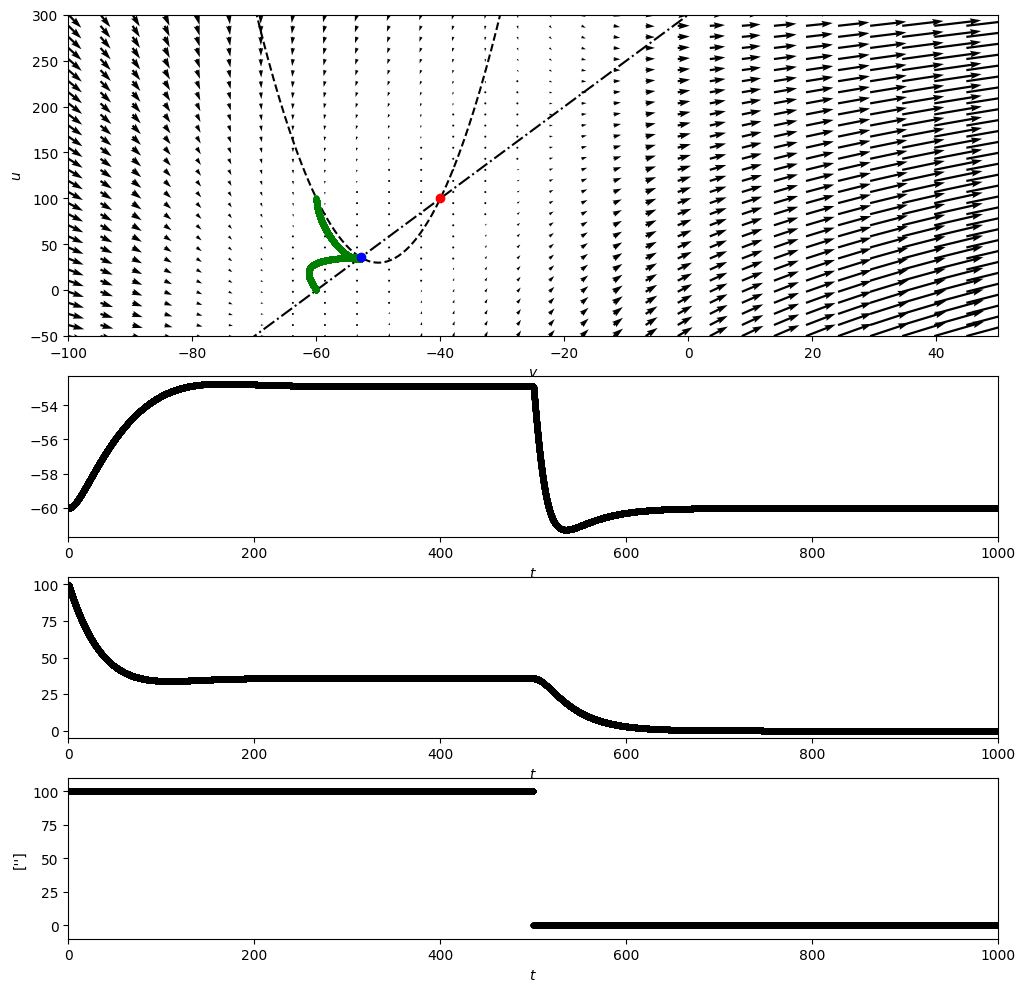
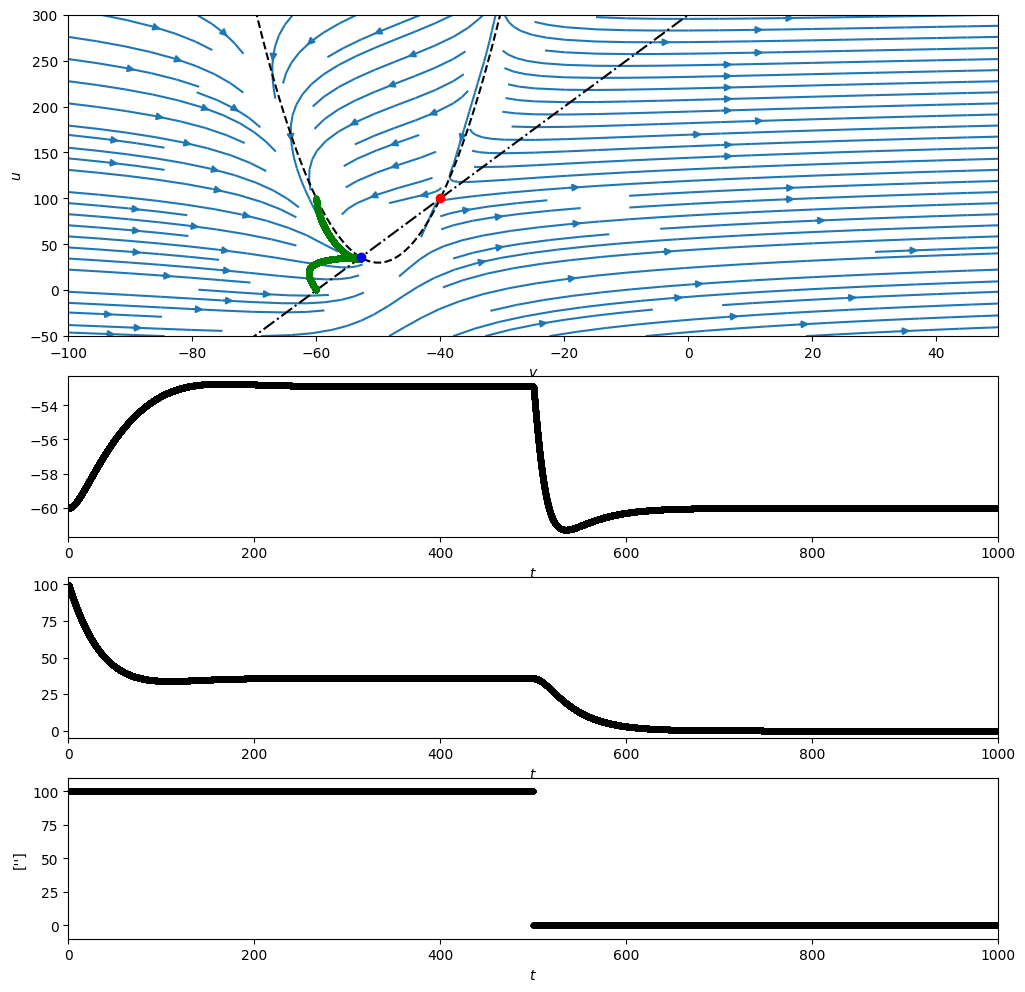
update 20230313

Changed region(s): [[0.0624, 0.0, 0.999, 0.3438]]

diff --git a/ode545_main.py b/ode545_main.py
@@ -12,13 +12,15 @@ import ode2d_pplane as ode2d
 
 import ode545_functions as functions
 
+import pysindy as ps
+
 cwd = os.getcwd()
 
 # ===== INPUT ===== #
 
 # ----- model ----- #
-case = "IZH-B"                                                  # case label; will be searched for in the ode2d_config file
-savepath_main = cwd+"/IZH_model_B/"                             # main folder to save plots to; subfolders according to detailed settings will be made further below
+case = "FHN-A" #"IZH-B"                                                  # case label; will be searched for in the ode2d_config file
+savepath_main = cwd+"/FHN_model_A/"                             # main folder to save plots to; subfolders according to detailed settings will be made further below
 fmodel, xmesh, ymesh, tmesh, X0, eqtol = config.getModel(case)  # gets (detailed) input regarding model, mesh, initial value and tolerance for finding equilibria from ode2d_config
 tmesh = 1000.,0.01                                              # time mesh (different subfolders will be made for different time meshes)
 
@@ -26,11 +28,11 @@ tmesh = 1000.,0.01                                              # time mesh (dif
 # ymesh = -50.0, 300.0, 100, 500, "$u$"
 
 # ----- parameters input current function fI ----- #
-Iext = 100                                                      # input current
+Iext = 0 #100                                                      # input current
 tthres = 500                                                     # threshold current
 Pulses = [[180,200,Iext],[580,600,Iext]]                        # time intervals for current pulses 
 Iref = 0                                                        # reference current
-fI_lab = 2                                                      # choice for which current function (see output section for which label corresponds to which function)
+fI_lab = 1                                                      # choice for which current function (see output section for which label corresponds to which function)
 
 # ----- plotting ----- #
 opt_plot = 2                                                    # plotting option (1 = separate analysis plots, 2 = combined plots)
@@ -64,6 +66,7 @@ else:
 ### algorithm
 
 Xtraj, T = functions.trajectories(fmodel(fI), X0, tmesh, method="RK4")
+dt = T[1] - T[0]
 # Xtraj = Xtraj.T
 
 # initialization summary plot
@@ -76,6 +79,8 @@ for i in range(nt):
     Idata[0,i] = fI(T[i])
 print(Idata)
 
+models = []
+
 for i in range(len(X0)):
     height_ratios = [2]+[1 for i in range(n+1)]
     print(height_ratios)
@@ -85,22 +90,43 @@ for i in range(len(X0)):
     functions.plotTimeSeries(axs[1:n+1], Xtraj[i], T)
     functions.plotTimeSeries(axs[n+1], Idata, T, Xlims = [-0.1*Iext, 1.1*Iext])
 
-    fig.savefig(savepath+"/analysis_X0="+str(X0[i])+"-6", bbox_inches="tight")
+    fig.savefig(savepath+"/analysis_X0="+str(X0[i]).replace(".","")+"-FHN-A-1.png", bbox_inches="tight")
     plt.close()
 
 
+####################
+# PYSINDY RECOVERY #
+####################
+
+# train model for first X0
+model_ps = ps.SINDy()
+model_ps.fit(Xtraj[0].T, t=dt)
+model_ps.print()
+
+assert len(X0) > 1
+
+Xtraj_comp = model_ps.predict(Xtraj[1].T)
+# Xtraj_ref = model_ps.differentiate(Xtraj[1].T, t=dt)
+
+ndims = Xtraj_comp.shape[0]
+fig, axs = plt.subplots(ndims, 1, sharex=True, figsize=(7, 9))
+for i in range(ndims):
+    axs[i].plot(T, Xtraj_comp[:, i], 'k', label='numerical derivative')
+    # axs[i].plot(T, Xtraj_ref[:, i], 'r--', label='model prediction')
+    # axs[i].legend()
+    # axs[i].set(xlabel='t', ylabel='$\dot x_{}$'.format(i))
+fig.show()
 
 
-# print(X0)
-# # print(fmodel)
-# Xtraj, _ = ode2d.trajectories(fmodel(fI),X0,tmesh,method="RK4")
-# for i in range(len(X0)):
-#     savelabel_TSA_i = "TSA_X0="+str(X0[i])
-#     savelabel_PPA_i = "PPA_X0="+str(X0[i])
-#     print(Xtraj[i])
-#     functions.TSA(Xtraj[i], tmesh, savepath, savelabel_TSA_i)
-#     functions.PPA(fmodel(fI),xmesh,ymesh,Xtraj[i],savepath,savelabel_PPA_i)
-#     functions.plotI(fI,tmesh, savepath, savelabel_TSA_i)
 
-# plotI = [fI, "I", [0,Iext+10]] # information for plotting regarding input current function
-# analysis.phasePlaneAnalysis(fmodel(fI),xmesh,ymesh,tmesh,X0=X0,t=tmesh[0],plot_traj=2,eqtol=eqtol,opt_plot=opt_plot,legend=False,title=title,plotI=plotI,savepath=savepath,savelabel=savelabel)
+
+# # check
+# t_test_span = (t_test[0], t_test[-1])
+# x_test = solve_ivp(lorenz, t_test_span, x0_test, t_eval=t_test, **integrator_keywords).y.T  
+
+# # Compare SINDy-predicted derivatives with finite difference derivatives
+# print('Model score: %f' % model.score(x_test, t=dt))
+
+# print(models)
+
+

diff --git a/ode2d_config.py b/ode2d_config.py
@@ -38,7 +38,7 @@ def getModel(case):
         xmesh = -100.0, 50.0, 30, 500, "$v$"
         ymesh = -50.0, 300.0, 30, 500, "$u$"
         tmesh = 500.,0.01 #200.,0.1
-        X0 = [np.array([-60,100])] #[np.array([-40,50])] #[np.array([-60,100])] # compared to (-60,0) in model A
+        X0 = [np.array([-60,100]), np.array([-70,100])] #[np.array([-40,50])] #[np.array([-60,100])] # compared to (-60,0) in model A
         eqtol = 1e-3
         model_lab = "IZH"
 
@@ -128,7 +128,7 @@ def getModel(case):
         xmesh = -0.5, 1.0, 30, 50, "$V$"
         ymesh = -0.05, 0.2, 30, 50, "$w$"
         tmesh = 500.,0.01
-        X0 = [np.array([0,0.15])]
+        X0 = [np.array([0,0.15]), np.array([0,0.2])]
         eqtol = 1e-3
         model_lab = "FHN"
 
